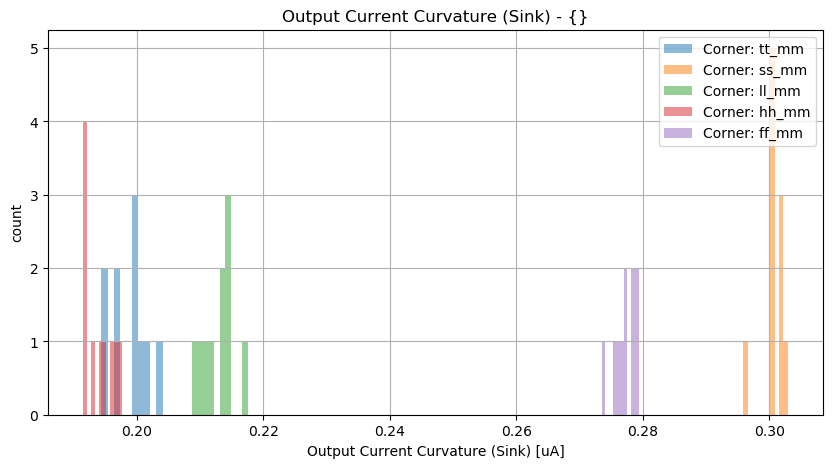
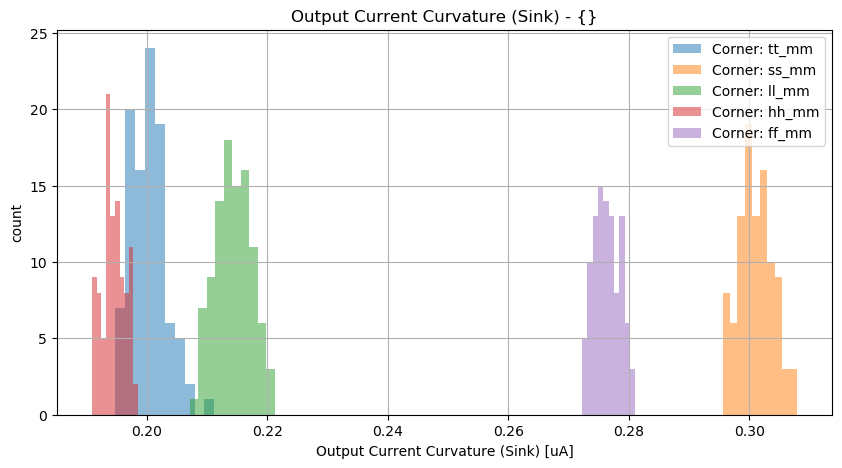
Jenkins update

diff --git a/vthref/combinedReport.md b/vthref/combinedReport.md
@@ -1,4 +1,4 @@
-01.01.2022, 21:41:10
+02.01.2022, 16:23:57
 
 # Vth Current Reference
 
@@ -30,8 +30,8 @@ LVS-state: Netlists match uniquely.<br>
 
 | Parameter | Min (Spec. / Sim.) |      | Max (Sim. / Spec.) | Unit | Checks (total/pass/fail/NaN) | Comment |
 | :-------- | -----------------: | :--: | :----------------- | :--- | :--------------------------- | ------- |
-| Output Current Curvature (Sink) | 0.0 / 0.192 | <svg height="20" width="150"><polyline points="3.0,3,3.0,17,147.0,17,147.0,3" style="fill:none;stroke:gray;stroke-width:1" /><polyline points="75.0,10.0,75.0,17" style="fill:none;stroke:gray;stroke-width:1" /><polyline points="30.5846832,10.0,46.624771200000005,10.0" style="stroke:green;stroke-width:2" /><circle cx="30.5846832" cy="10.0" r="3" style="fill:green;stroke:green;stroke-width:0" /><circle cx="46.624771200000005" cy="10.0" r="3" style="fill:green;stroke:green;stroke-width:0" /></svg> | 0.303 / 1.0 | uA | 50/100.0%/0.0%/0.0% |  |
-| Output Current Curvature (Source) | 0.0 / 0.195 | <svg height="20" width="150"><polyline points="3.0,3,3.0,17,147.0,17,147.0,3" style="fill:none;stroke:gray;stroke-width:1" /><polyline points="75.0,10.0,75.0,17" style="fill:none;stroke:gray;stroke-width:1" /><polyline points="31.0913328,10.0,46.4798784,10.0" style="stroke:green;stroke-width:2" /><circle cx="31.0913328" cy="10.0" r="3" style="fill:green;stroke:green;stroke-width:0" /><circle cx="46.4798784" cy="10.0" r="3" style="fill:green;stroke:green;stroke-width:0" /></svg> | 0.302 / 1.0 | uA | 50/100.0%/0.0%/0.0% |  |
+| Output Current Curvature (Sink) | 0.0 / 0.191 | <svg height="20" width="150"><polyline points="3.0,3,3.0,17,147.0,17,147.0,3" style="fill:none;stroke:gray;stroke-width:1" /><polyline points="75.0,10.0,75.0,17" style="fill:none;stroke:gray;stroke-width:1" /><polyline points="30.5025456,10.0,47.330688,10.0" style="stroke:green;stroke-width:2" /><circle cx="30.5025456" cy="10.0" r="3" style="fill:green;stroke:green;stroke-width:0" /><circle cx="47.330688" cy="10.0" r="3" style="fill:green;stroke:green;stroke-width:0" /></svg> | 0.308 / 1.0 | uA | 500/100.0%/0.0%/0.0% |  |
+| Output Current Curvature (Source) | 0.0 / 0.193 | <svg height="20" width="150"><polyline points="3.0,3,3.0,17,147.0,17,147.0,3" style="fill:none;stroke:gray;stroke-width:1" /><polyline points="75.0,10.0,75.0,17" style="fill:none;stroke:gray;stroke-width:1" /><polyline points="30.798192,10.0,46.7762304,10.0" style="stroke:green;stroke-width:2" /><circle cx="30.798192" cy="10.0" r="3" style="fill:green;stroke:green;stroke-width:0" /><circle cx="46.7762304" cy="10.0" r="3" style="fill:green;stroke:green;stroke-width:0" /></svg> | 0.304 / 1.0 | uA | 500/100.0%/0.0%/0.0% |  |
 
 <br>
 
@@ -48,8 +48,8 @@ LVS-state: Netlists match uniquely.<br>
 
 | Parameter | Min (Spec. / Sim.) |      | Max (Sim. / Spec.) | Unit | Checks (total/pass/fail/NaN) | Comment |
 | :-------- | -----------------: | :--: | :----------------- | :--- | :--------------------------- | ------- |
-| Output Current Curvature (Sink) | 0.0 / 0.195 | <svg height="20" width="150"><polyline points="3.0,3,3.0,17,147.0,17,147.0,3" style="fill:none;stroke:gray;stroke-width:1" /><polyline points="75.0,10.0,75.0,17" style="fill:none;stroke:gray;stroke-width:1" /><polyline points="31.091577599999997,10.0,45.3408096,10.0" style="stroke:green;stroke-width:2" /><circle cx="31.091577599999997" cy="10.0" r="3" style="fill:green;stroke:green;stroke-width:0" /><circle cx="45.3408096" cy="10.0" r="3" style="fill:green;stroke:green;stroke-width:0" /></svg> | 0.294 / 1.0 | uA | 50/100.0%/0.0%/0.0% |  |
-| Output Current Curvature (Source) | 0.0 / 0.203 | <svg height="20" width="150"><polyline points="3.0,3,3.0,17,147.0,17,147.0,3" style="fill:none;stroke:gray;stroke-width:1" /><polyline points="75.0,10.0,75.0,17" style="fill:none;stroke:gray;stroke-width:1" /><polyline points="32.1997872,10.0,48.1035504,10.0" style="stroke:green;stroke-width:2" /><circle cx="32.1997872" cy="10.0" r="3" style="fill:green;stroke:green;stroke-width:0" /><circle cx="48.1035504" cy="10.0" r="3" style="fill:green;stroke:green;stroke-width:0" /></svg> | 0.313 / 1.0 | uA | 50/100.0%/0.0%/0.0% |  |
+| Output Current Curvature (Sink) | 0.0 / 0.195 | <svg height="20" width="150"><polyline points="3.0,3,3.0,17,147.0,17,147.0,3" style="fill:none;stroke:gray;stroke-width:1" /><polyline points="75.0,10.0,75.0,17" style="fill:none;stroke:gray;stroke-width:1" /><polyline points="31.034064,10.0,46.0186464,10.0" style="stroke:green;stroke-width:2" /><circle cx="31.034064" cy="10.0" r="3" style="fill:green;stroke:green;stroke-width:0" /><circle cx="46.0186464" cy="10.0" r="3" style="fill:green;stroke:green;stroke-width:0" /></svg> | 0.299 / 1.0 | uA | 500/100.0%/0.0%/0.0% |  |
+| Output Current Curvature (Source) | 0.0 / 0.2 | <svg height="20" width="150"><polyline points="3.0,3,3.0,17,147.0,17,147.0,3" style="fill:none;stroke:gray;stroke-width:1" /><polyline points="75.0,10.0,75.0,17" style="fill:none;stroke:gray;stroke-width:1" /><polyline points="31.781495999999997,10.0,48.2197152,10.0" style="stroke:green;stroke-width:2" /><circle cx="31.781495999999997" cy="10.0" r="3" style="fill:green;stroke:green;stroke-width:0" /><circle cx="48.2197152" cy="10.0" r="3" style="fill:green;stroke:green;stroke-width:0" /></svg> | 0.314 / 1.0 | uA | 500/100.0%/0.0%/0.0% |  |
 
 <br>
 

diff --git a/vthref/specReport.md b/vthref/specReport.md
@@ -12,8 +12,8 @@
 
 | Parameter | Min (Spec. / Sim.) |      | Max (Sim. / Spec.) | Unit | Checks (total/pass/fail/NaN) | Comment |
 | :-------- | -----------------: | :--: | :----------------- | :--- | :--------------------------- | ------- |
-| Output Current Curvature (Sink) | 0.0 / 0.192 | <svg height="20" width="150"><polyline points="3.0,3,3.0,17,147.0,17,147.0,3" style="fill:none;stroke:gray;stroke-width:1" /><polyline points="75.0,10.0,75.0,17" style="fill:none;stroke:gray;stroke-width:1" /><polyline points="30.5846832,10.0,46.624771200000005,10.0" style="stroke:green;stroke-width:2" /><circle cx="30.5846832" cy="10.0" r="3" style="fill:green;stroke:green;stroke-width:0" /><circle cx="46.624771200000005" cy="10.0" r="3" style="fill:green;stroke:green;stroke-width:0" /></svg> | 0.303 / 1.0 | uA | 50/100.0%/0.0%/0.0% |  |
-| Output Current Curvature (Source) | 0.0 / 0.195 | <svg height="20" width="150"><polyline points="3.0,3,3.0,17,147.0,17,147.0,3" style="fill:none;stroke:gray;stroke-width:1" /><polyline points="75.0,10.0,75.0,17" style="fill:none;stroke:gray;stroke-width:1" /><polyline points="31.0913328,10.0,46.4798784,10.0" style="stroke:green;stroke-width:2" /><circle cx="31.0913328" cy="10.0" r="3" style="fill:green;stroke:green;stroke-width:0" /><circle cx="46.4798784" cy="10.0" r="3" style="fill:green;stroke:green;stroke-width:0" /></svg> | 0.302 / 1.0 | uA | 50/100.0%/0.0%/0.0% |  |
+| Output Current Curvature (Sink) | 0.0 / 0.191 | <svg height="20" width="150"><polyline points="3.0,3,3.0,17,147.0,17,147.0,3" style="fill:none;stroke:gray;stroke-width:1" /><polyline points="75.0,10.0,75.0,17" style="fill:none;stroke:gray;stroke-width:1" /><polyline points="30.5025456,10.0,47.330688,10.0" style="stroke:green;stroke-width:2" /><circle cx="30.5025456" cy="10.0" r="3" style="fill:green;stroke:green;stroke-width:0" /><circle cx="47.330688" cy="10.0" r="3" style="fill:green;stroke:green;stroke-width:0" /></svg> | 0.308 / 1.0 | uA | 500/100.0%/0.0%/0.0% |  |
+| Output Current Curvature (Source) | 0.0 / 0.193 | <svg height="20" width="150"><polyline points="3.0,3,3.0,17,147.0,17,147.0,3" style="fill:none;stroke:gray;stroke-width:1" /><polyline points="75.0,10.0,75.0,17" style="fill:none;stroke:gray;stroke-width:1" /><polyline points="30.798192,10.0,46.7762304,10.0" style="stroke:green;stroke-width:2" /><circle cx="30.798192" cy="10.0" r="3" style="fill:green;stroke:green;stroke-width:0" /><circle cx="46.7762304" cy="10.0" r="3" style="fill:green;stroke:green;stroke-width:0" /></svg> | 0.304 / 1.0 | uA | 500/100.0%/0.0%/0.0% |  |
 
 <br>
 
@@ -30,7 +30,7 @@
 
 | Parameter | Min (Spec. / Sim.) |      | Max (Sim. / Spec.) | Unit | Checks (total/pass/fail/NaN) | Comment |
 | :-------- | -----------------: | :--: | :----------------- | :--- | :--------------------------- | ------- |
-| Output Current Curvature (Sink) | 0.0 / 0.195 | <svg height="20" width="150"><polyline points="3.0,3,3.0,17,147.0,17,147.0,3" style="fill:none;stroke:gray;stroke-width:1" /><polyline points="75.0,10.0,75.0,17" style="fill:none;stroke:gray;stroke-width:1" /><polyline points="31.091577599999997,10.0,45.3408096,10.0" style="stroke:green;stroke-width:2" /><circle cx="31.091577599999997" cy="10.0" r="3" style="fill:green;stroke:green;stroke-width:0" /><circle cx="45.3408096" cy="10.0" r="3" style="fill:green;stroke:green;stroke-width:0" /></svg> | 0.294 / 1.0 | uA | 50/100.0%/0.0%/0.0% |  |
-| Output Current Curvature (Source) | 0.0 / 0.203 | <svg height="20" width="150"><polyline points="3.0,3,3.0,17,147.0,17,147.0,3" style="fill:none;stroke:gray;stroke-width:1" /><polyline points="75.0,10.0,75.0,17" style="fill:none;stroke:gray;stroke-width:1" /><polyline points="32.1997872,10.0,48.1035504,10.0" style="stroke:green;stroke-width:2" /><circle cx="32.1997872" cy="10.0" r="3" style="fill:green;stroke:green;stroke-width:0" /><circle cx="48.1035504" cy="10.0" r="3" style="fill:green;stroke:green;stroke-width:0" /></svg> | 0.313 / 1.0 | uA | 50/100.0%/0.0%/0.0% |  |
+| Output Current Curvature (Sink) | 0.0 / 0.195 | <svg height="20" width="150"><polyline points="3.0,3,3.0,17,147.0,17,147.0,3" style="fill:none;stroke:gray;stroke-width:1" /><polyline points="75.0,10.0,75.0,17" style="fill:none;stroke:gray;stroke-width:1" /><polyline points="31.034064,10.0,46.0186464,10.0" style="stroke:green;stroke-width:2" /><circle cx="31.034064" cy="10.0" r="3" style="fill:green;stroke:green;stroke-width:0" /><circle cx="46.0186464" cy="10.0" r="3" style="fill:green;stroke:green;stroke-width:0" /></svg> | 0.299 / 1.0 | uA | 500/100.0%/0.0%/0.0% |  |
+| Output Current Curvature (Source) | 0.0 / 0.2 | <svg height="20" width="150"><polyline points="3.0,3,3.0,17,147.0,17,147.0,3" style="fill:none;stroke:gray;stroke-width:1" /><polyline points="75.0,10.0,75.0,17" style="fill:none;stroke:gray;stroke-width:1" /><polyline points="31.781495999999997,10.0,48.2197152,10.0" style="stroke:green;stroke-width:2" /><circle cx="31.781495999999997" cy="10.0" r="3" style="fill:green;stroke:green;stroke-width:0" /><circle cx="48.2197152" cy="10.0" r="3" style="fill:green;stroke:green;stroke-width:0" /></svg> | 0.314 / 1.0 | uA | 500/100.0%/0.0%/0.0% |  |
 
 <br>
